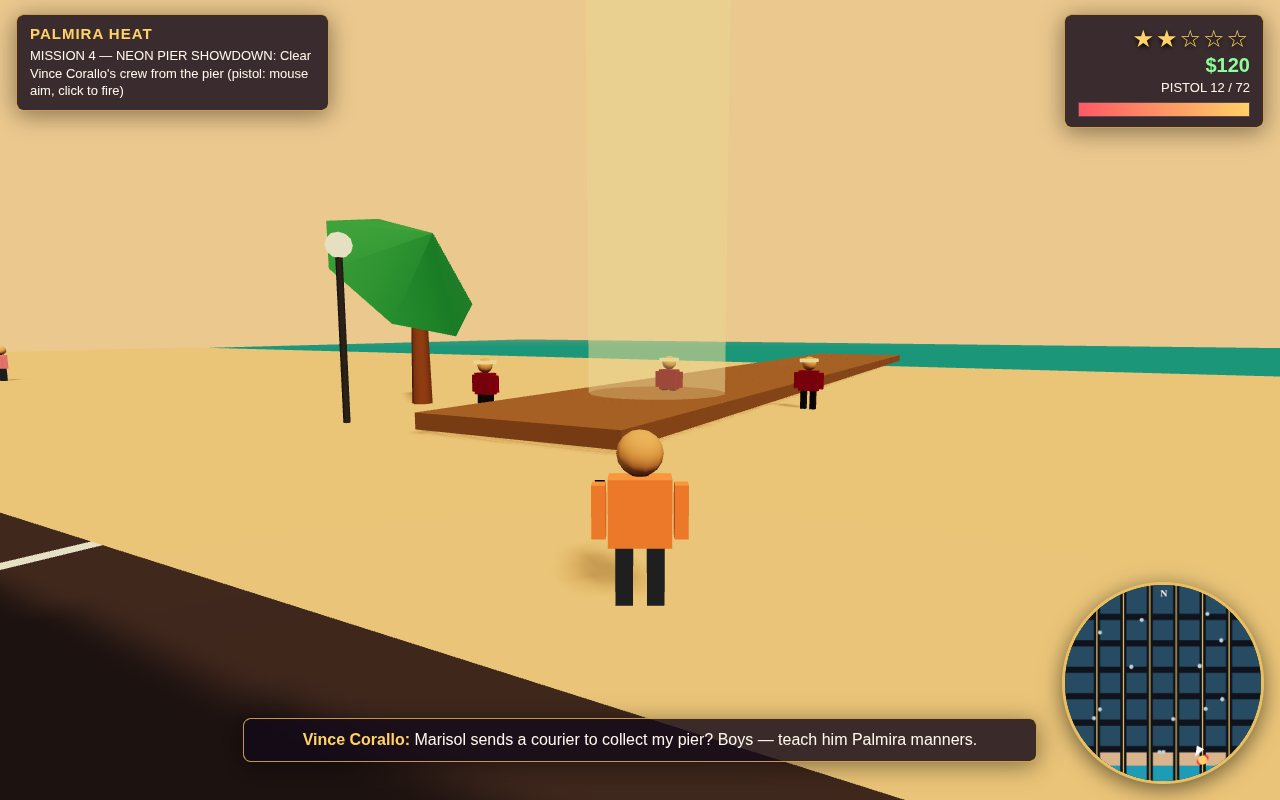
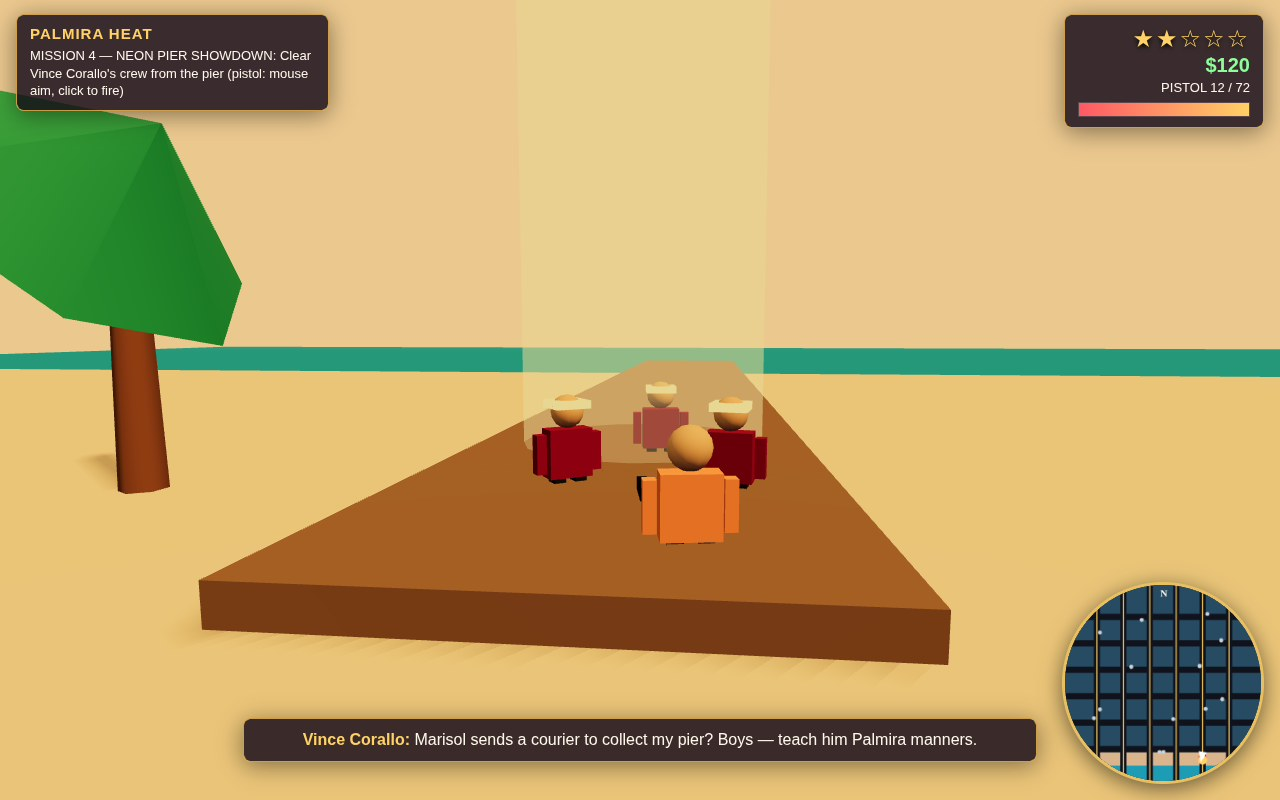
Restage cover chase and pier showdown screenshots
Cover: pull both police cruisers in behind the player's coupe, fully in
frame with light bars visible, so the chase reads instantly.
Mission: move the player up close to Vince Corallo's crew on the pier,
tighten the crew grouping facing the player, and offset the shot camera
slightly so the drawn pistol shows; beacon, pier and ocean stay in frame.

diff --git a/game/src/shots.js b/game/src/shots.js
@@ -19,7 +19,7 @@ export function stageShotScene(name, game) {
     game.police.forEach((cruiser, index) => {
       if (index > 1) return;
       cruiser.active = true; cruiser.mesh.visible = true;
-      cruiser.position.set(index === 0 ? 23.4 : 31.6, 0, index === 0 ? -1 : -4.5);
+      cruiser.position.set(index === 0 ? 24.3 : 30.3, 0, index === 0 ? 1.8 : 0.4);
       cruiser.yaw = 0.1 * (index === 0 ? 1 : -1); cruiser.speed = 12; cruiser.updateTransform();
     });
     const trafficAhead = game.vehicles.filter((vehicle) => vehicle.mode === 'traffic');
@@ -43,13 +43,20 @@ export function stageShotScene(name, game) {
     return { follow: 'foot', height: 3.4, back: 8.4 };
   }
   if (name === 'mission') {
-    player.position.set(64, 0, 124); player.yaw = 0.5; player.gun.visible = true; player.mesh.visible = true;
+    player.position.set(70.8, 0, 133); player.yaw = 0.17; player.gun.visible = true; player.mesh.visible = true;
     wanted.setStars(2, 'Pier showdown');
     game.missions.missionIndex = 3; game.missions.stepIndex = 1; game.missions.active = true;
-    game.missions.enemies = game.spawnShowdown(); game.missions.refreshBeacon();
+    game.missions.enemies = game.spawnShowdown();
+    const foeSpots = [[69.5, 139.5], [75, 139], [72, 142.5]];
+    game.missions.enemies.forEach((foe, index) => {
+      const [foeX, foeZ] = foeSpots[index % foeSpots.length];
+      foe.position.set(foeX, 0, foeZ); foe.mesh.position.set(foeX, 0, foeZ);
+      foe.yaw = Math.PI + (index - 1) * 0.3; foe.speed = 0;
+    });
+    game.missions.refreshBeacon();
     game.hud.showDialogue('Vince Corallo', 'Marisol sends a courier to collect my pier? Boys — teach him Palmira manners.');
     game.hud.freezeOverlays();
-    return { follow: 'foot', height: 3.2, back: 7.4 };
+    return { follow: 'foot', height: 3.1, back: 7.4, side: 1.1 };
   }
   const taxi = game.vehicles.find((vehicle) => vehicle.type.kind.includes('Taxi')) || game.vehicles[1];
   game.enterVehicle(taxi, true);
